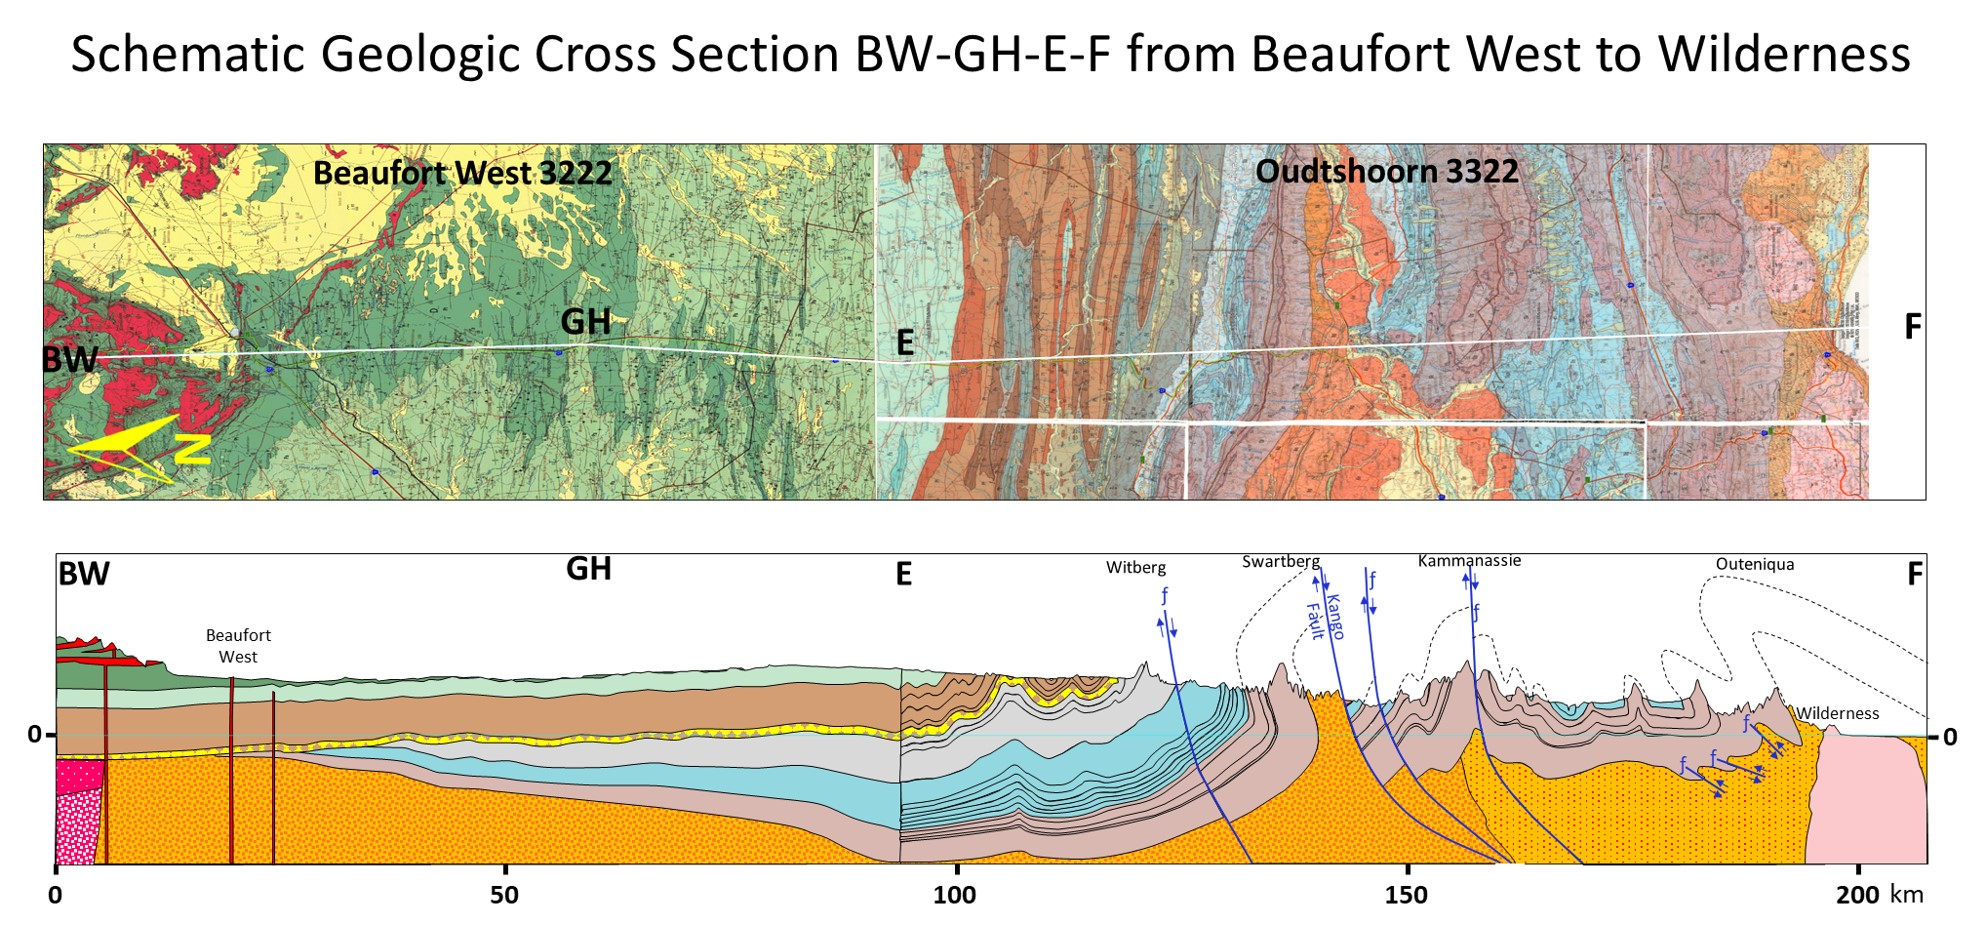
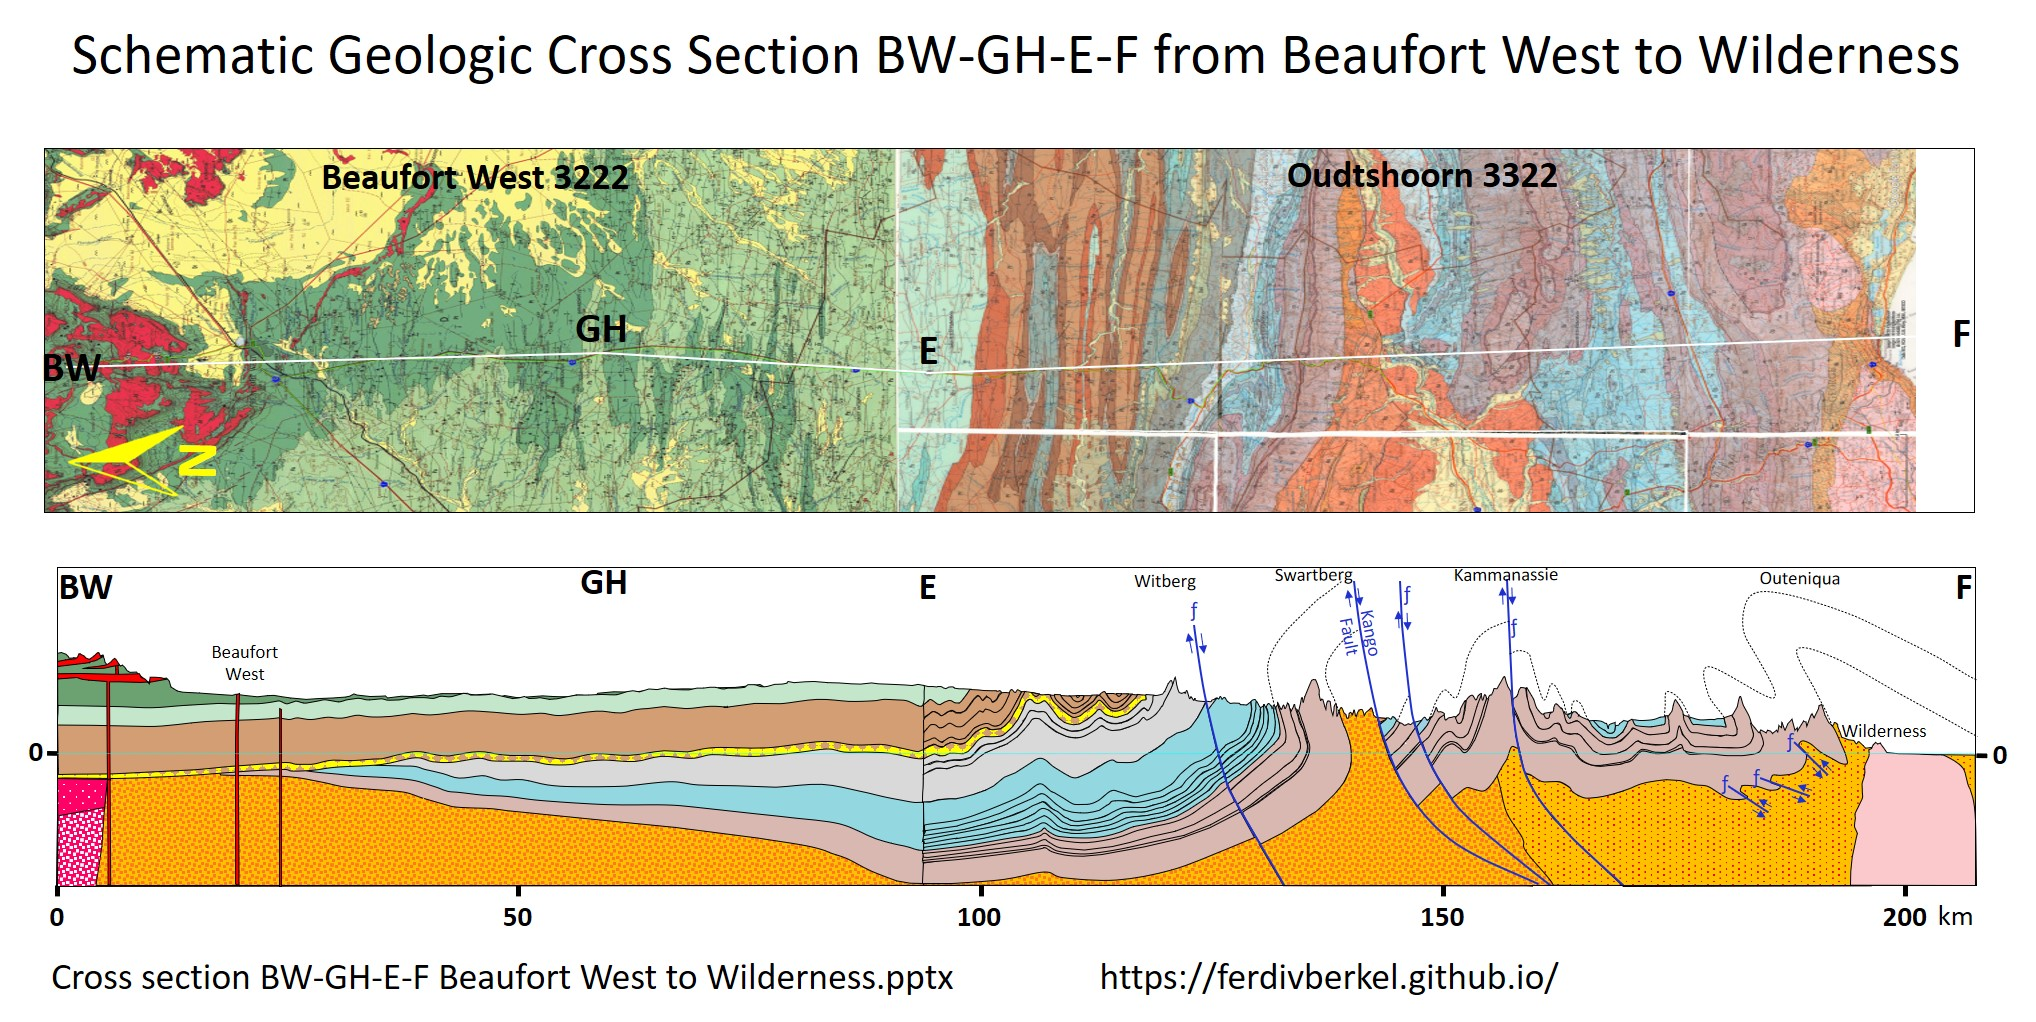
Added footer to mega section jpg

diff --git a/index.html b/index.html
@@ -113,7 +113,7 @@
 		<a href='Cross section AN-AS PE-Algoa Basin.jpg'>Cross section AN-AS PE-Algoa Basin (189 KB)</a>
 	</li>
 	<li>
-		<a href='Cross section BW-GH-E-F Beaufort West to Wilderness.jpg'>Cross section BW-GH-E-F Beaufort West to Wilderness (539 KB)</a>
+		<a href='Cross section BW-GH-E-F Beaufort West to Wilderness.jpg'>Cross section BW-GH-E-F Beaufort West to Wilderness (588 KB)</a>
 	</li>
 	<li>
 		<a href='Cross section BN-BS Beervlei Dam.jpg'>Cross section BN-BS Beervlei Dam (531 KB)</a>
